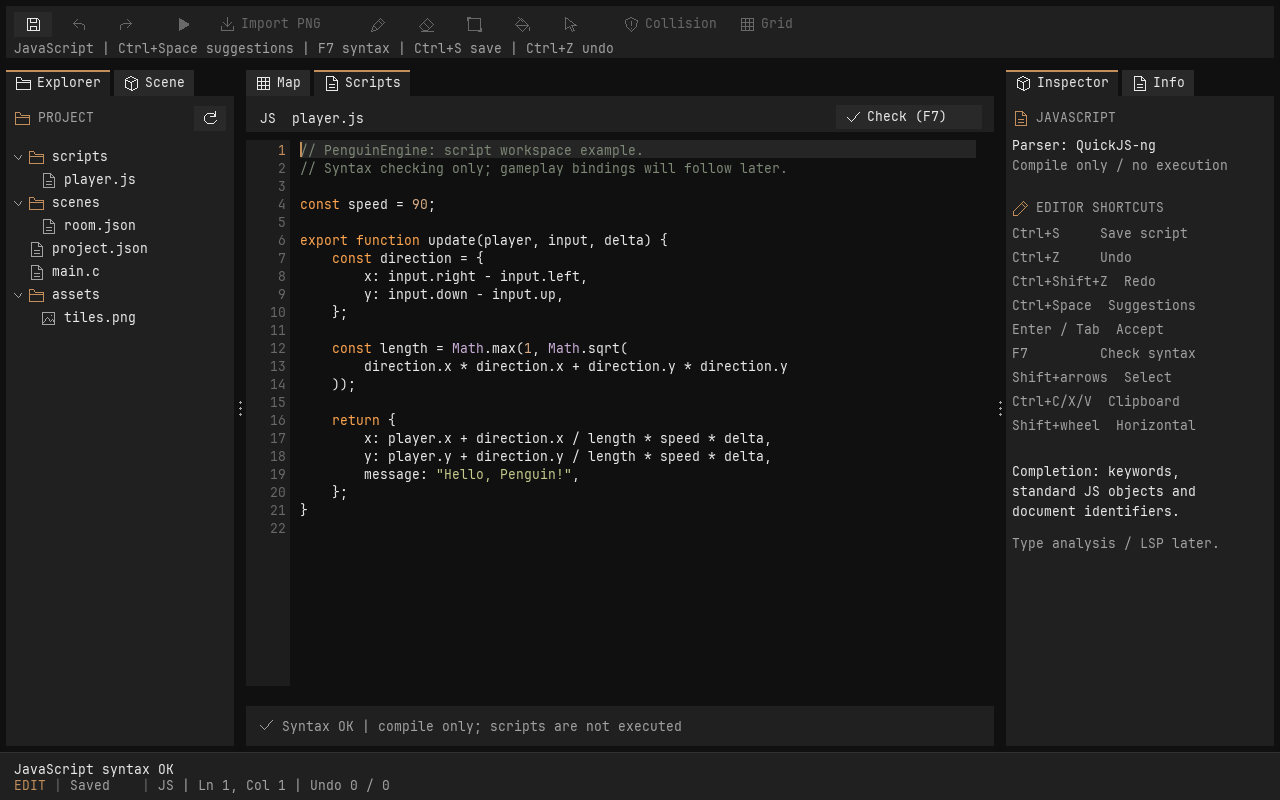
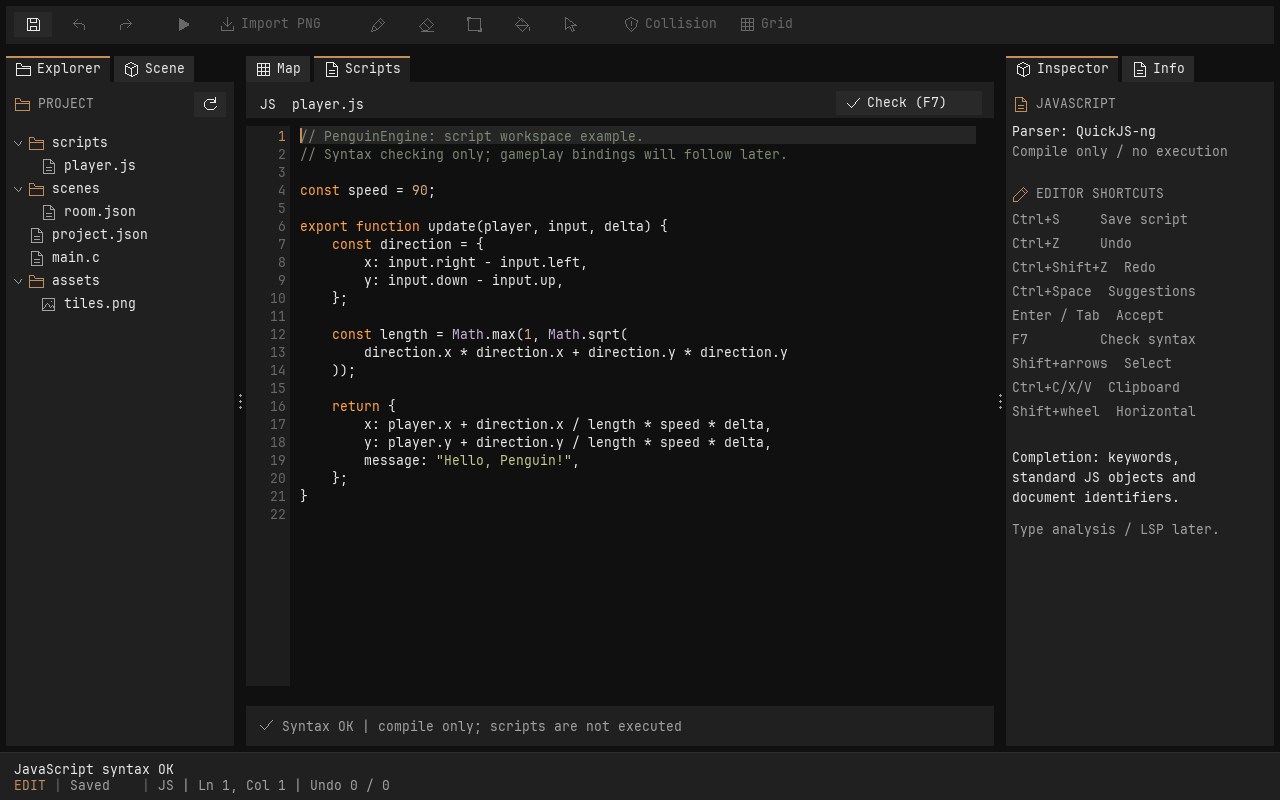
Remove toolbar hints and reclaim workspace height

diff --git a/editor/src/main.c b/editor/src/main.c
@@ -9,7 +9,7 @@
 #include <string.h>
 #define LEFT ((int)app.left_width)
 #define RIGHT ((int)app.right_width)
-#define TOP 64
+#define TOP 50
 #define TABS 32
 #define BOTTOM 48
 #define PANEL_GAP 6
@@ -1113,12 +1113,6 @@ static void draw(void) {
         app.collision = !app.collision;
     if (icon_button(730, 12, 80, ICON_GRID, "Grid", "Show tile grid", app.grid, map_active))
         app.grid = !app.grid;
-    text(14, 45,
-         app.script_tab
-             ? "JavaScript | Ctrl+Space suggestions | F7 syntax | Ctrl+S save | Ctrl+Z undo"
-             : "Drop PNG to import | B/E/R/F/V tools | Ctrl+S save | Ctrl+Z undo | F5 play | MMB "
-               "pan | wheel zoom",
-         UI_MUTED);
     box((SDL_FRect){LEFT + PANEL_GAP, SIDE_TOP, (float)(app.width - LEFT - RIGHT - 2 * PANEL_GAP),
                     PANEL_GAP},
         UI_PANEL);

diff --git a/docs/UI_BIBLIOTHEK.md b/docs/UI_BIBLIOTHEK.md
@@ -132,3 +132,5 @@ Zwischen den Spalten werden keine Trennlinien gezeichnet, auch nicht bei Hover. 
 
 
 Tabbreiten folgen dem Inhalt: `ui_text_width()` misst UTF-8 nach denselben festen Zeichenbreiten wie `ui_text()`, nicht nach UTF-8-Bytes. `ui_tab_content_width(icon, label)` addiert Icon und Innenabstände. Mit `ui_tabs_set_width(tabs, id, content_width + 4)` bekommt jeder Tab seine eigene Slotbreite inklusive 4 px Zwischenraum. `UiTab.width = 0` erhält die bisherige Fallbackbreite aus `ui_tabs_update`/`ui_tab_rect`. Die Messung und Darstellung bleiben im SDL-Backend, das Layoutmodell bleibt SDL-frei. Beim Umsortieren wandert die Breite mit der ID; Ziele werden über die Mittelpunkte der Nachbartabs bestimmt, damit unterschiedlich breite Tabs bei gehaltenem Mauszeiger nicht hin- und herspringen. Überlaufende Tabreihen lassen sich mit dem Mausrad über der Kopfzeile scrollen. Hinter dem letzten Tab wird kein zusätzlicher Zwischenraum gescrollt.
+
+Die obere Toolbar enthält nur die Aktionsbuttons, ohne zusätzliche Bedienhinweiszeile. Tooltips und Tastenkürzel bleiben verfügbar; die kompaktere Toolbar gibt dem Arbeitsbereich 14 px mehr Höhe.
